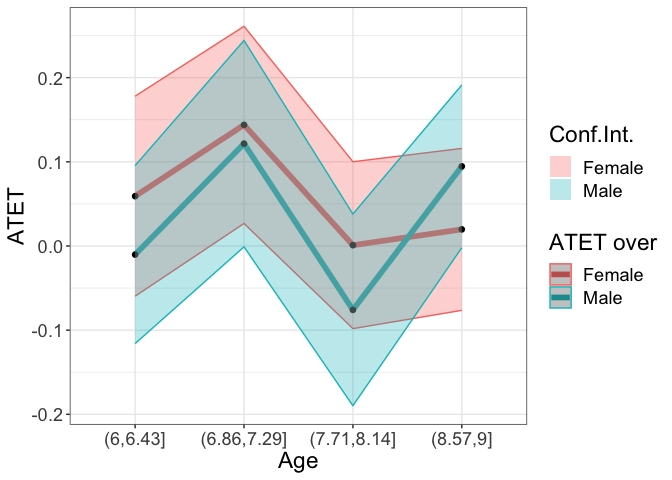
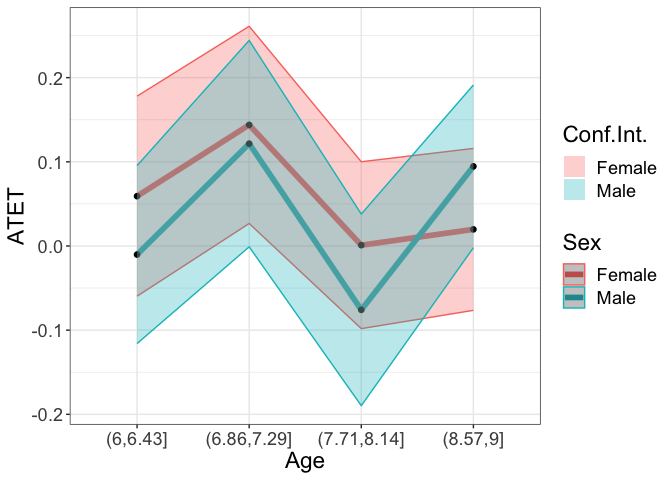
Documentation

diff --git a/docs/index.html b/docs/index.html
@@ -68,7 +68,7 @@
 <!-- README.md is generated from README.Rmd. Please edit that file -->
 <p>The <strong>didnp</strong> package contains tools for computing average treatment effect parameters in a Difference-in-Differences setup without specifying a model.</p>
 <div class="section level2">
-<h2 id="getting-started">Getting Started<a class="anchor" aria-label="anchor" href="#getting-started"></a>
+<h2 id="the-framework">The framework<a class="anchor" aria-label="anchor" href="#the-framework"></a>
 </h2>
 <p>The <strong>didnp</strong> package implements the framework developed in</p>
 <ul><li>
@@ -86,7 +86,7 @@
 <span><span class="fu">devtools</span><span class="fu">::</span><span class="fu"><a href="https://remotes.r-lib.org/reference/install_github.html" class="external-link">install_github</a></span><span class="op">(</span><span class="st">"OlegBadunenko/didnp"</span><span class="op">)</span></span></code></pre></div>
 </div>
 <div class="section level2">
-<h2 id="an-example">An example<a class="anchor" aria-label="anchor" href="#an-example"></a>
+<h2 id="illustration">Illustration<a class="anchor" aria-label="anchor" href="#illustration"></a>
 </h2>
 <blockquote>
 <p>The following is a simplified example …, which comes from <a href="https://elsevier.com/" class="external-link">that</a>.</p>
@@ -123,13 +123,16 @@
 <span></span>
 <span><span class="co"># generate 'treatment_period'</span></span>
 <span><span class="va">DACAsub</span><span class="op">$</span><span class="va">treatment_period</span> <span class="op">&lt;-</span> <span class="fu"><a href="https://rdrr.io/r/base/ifelse.html" class="external-link">ifelse</a></span><span class="op">(</span> <span class="va">DACAsub</span><span class="op">[</span>,<span class="st">"year"</span><span class="op">]</span> <span class="op">&gt;</span> <span class="fl">2011</span>, <span class="fl">1</span>, <span class="fl">0</span><span class="op">)</span></span></code></pre></div>
+<div class="section level3">
+<h3 id="estimation">Estimation<a class="anchor" aria-label="anchor" href="#estimation"></a>
+</h3>
 <p>To estimate the average treatment effects, we use the <strong>didnpreg</strong> function. Define the formula that we will use:</p>
 <div class="sourceCode" id="cb6"><pre class="downlit sourceCode r">
 <code class="sourceCode R"><span><span class="va">form1</span> <span class="op">&lt;-</span> <span class="va">inschool</span> <span class="op">~</span> <span class="va">fem</span> <span class="op">+</span> <span class="va">race</span> <span class="op">+</span> <span class="va">var.bpl</span> <span class="op">+</span> <span class="va">state</span> <span class="op">+</span> <span class="va">age</span> <span class="op">+</span> <span class="va">yrimmig</span> <span class="op">+</span> </span>
 <span>  <span class="va">ageimmig</span> <span class="op">|</span> <span class="va">inschool</span> <span class="op">|</span> <span class="va">year</span> <span class="op">|</span> <span class="va">elig</span> <span class="op">|</span> <span class="va">treatment_period</span> <span class="op">|</span> <span class="va">perwt</span></span></code></pre></div>
 <p>The <strong>didnpreg</strong> function allows using matrices. The manual explains how to use matrix syntax (type <code><a href="reference/didnpreg.html">?didnpreg</a></code>). To obtain standard errors,</p>
 <blockquote>
-<p>we will use a few number of bootstrap replicaitons here, but we advise to set <code>boot.num = 399</code> or more.</p>
+<p>we will use a few number of bootstrap replicaitons here, but we advise to set <code>boot.num = 399</code> or larger.</p>
 </blockquote>
 <p>To speed up the estimation</p>
 <blockquote>
@@ -143,7 +146,7 @@
 <span>  data <span class="op">=</span> <span class="va">DACAsub</span>,</span>
 <span>  subset <span class="op">=</span> <span class="va">mysmpl</span>,</span>
 <span>  bwmethod <span class="op">=</span> <span class="st">"opt"</span>,</span>
-<span>  boot.num <span class="op">=</span> <span class="fl">7</span>,</span>
+<span>  boot.num <span class="op">=</span> <span class="fl">99</span>,</span>
 <span>  TTb <span class="op">=</span> <span class="cn">FALSE</span>,</span>
 <span>  print.level <span class="op">=</span> <span class="fl">0</span>,</span>
 <span>  cores <span class="op">=</span> <span class="fl">8</span><span class="op">)</span></span>
@@ -167,12 +170,12 @@
 <span><span class="co">#R&gt;  6   yrimmig ordered 2.763923e-05</span></span>
 <span><span class="co">#R&gt;  7  ageimmig ordered 8.690101e-05</span></span>
 <span><span class="co">#R&gt;  </span></span>
-<span><span class="co">#R&gt;  Bootstrapping standard errors (7 replications) completed in 1 second</span></span>
+<span><span class="co">#R&gt;  Bootstrapping standard errors (99 replications) completed in 15 seconds</span></span>
 <span><span class="co">#R&gt;  </span></span>
 <span><span class="co">#R&gt;  Unconditional Treatment Effect on the Treated (ATET):</span></span>
 <span><span class="co">#R&gt;  </span></span>
 <span><span class="co">#R&gt;  TTa    = 0.03684</span></span>
-<span><span class="co">#R&gt;  TTa sd = 0.6787</span></span>
+<span><span class="co">#R&gt;  TTa sd = 0.6673</span></span>
 <span><span class="co">#R&gt;  N(TTa) = 2337</span></span></code></pre></div>
 <p>Estimating <span class="math inline"><em>T</em><em>T</em><sub><em>b</em></sub></span> will take longer. The bandwidths is cross-validated.</p>
 <div class="sourceCode" id="cb9"><pre class="downlit sourceCode r">
@@ -209,10 +212,14 @@
 <span><span class="co">#R&gt;  TTb = 0.05493, N(TTb) = 24018</span></span>
 <span><span class="co">#R&gt;  </span></span>
 <span><span class="co">#R&gt;  Bootstrapping standard errors (99 replications)</span></span>
-<span><span class="co">#R&gt;  Bootstrapping standard errors completed in 2 minutes and 47 seconds</span></span>
+<span><span class="co">#R&gt;  Bootstrapping standard errors completed in 2 minutes and 45 seconds</span></span>
 <span><span class="co">#R&gt;  </span></span>
 <span><span class="co">#R&gt;  TTa sd = 0.6344 </span></span>
 <span><span class="co">#R&gt;  TTb sd = 0.5254</span></span></code></pre></div>
+</div>
+<div class="section level3">
+<h3 id="plotting-heterogenous-treatment-effects">Plotting Heterogenous Treatment Effects<a class="anchor" aria-label="anchor" href="#plotting-heterogenous-treatment-effects"></a>
+</h3>
 <p>To plot the heterogenous treatment effects, use the <strong>didnpplothte</strong> command. Define three variables by and over which the treatment effects will be plotted:</p>
 <div class="sourceCode" id="cb10"><pre class="downlit sourceCode r">
 <code class="sourceCode R"><span><span class="va">DACAsub</span><span class="op">[</span><span class="va">tym1b</span><span class="op">$</span><span class="va">esample</span>, <span class="st">"race"</span><span class="op">]</span> <span class="op">-&gt;</span> <span class="va">race</span></span>
@@ -407,6 +414,7 @@
 <span>  over <span class="op">=</span> <span class="va">sex</span><span class="op">[</span><span class="va">tym1b</span><span class="op">$</span><span class="va">sample1</span><span class="op">]</span>,</span>
 <span>  xlab <span class="op">=</span> <span class="st">"Age"</span>,</span>
 <span>  ylab <span class="op">=</span> <span class="st">"ATET"</span>,</span>
+<span>  over.lab <span class="op">=</span> <span class="st">"Sex"</span>,</span>
 <span>  point_size <span class="op">=</span> <span class="fl">2</span>,</span>
 <span>  over.labels.values <span class="op">=</span> <span class="fu"><a href="https://rdrr.io/r/base/data.frame.html" class="external-link">data.frame</a></span><span class="op">(</span><span class="fu"><a href="https://rdrr.io/r/base/c.html" class="external-link">c</a></span><span class="op">(</span><span class="fl">1</span>,<span class="fl">0</span><span class="op">)</span>, <span class="fu"><a href="https://rdrr.io/r/base/c.html" class="external-link">c</a></span><span class="op">(</span><span class="st">"Female"</span>, <span class="st">"Male"</span><span class="op">)</span><span class="op">)</span>,</span>
 <span>  text_size <span class="op">=</span> <span class="fl">15</span><span class="op">)</span></span>
@@ -446,6 +454,7 @@
 <span>  over <span class="op">=</span> <span class="va">race</span><span class="op">[</span><span class="va">tym1b</span><span class="op">$</span><span class="va">sample1</span><span class="op">]</span>,</span>
 <span>  xlab <span class="op">=</span> <span class="st">"Sex"</span>,</span>
 <span>  ylab <span class="op">=</span> <span class="st">"ATET"</span>,</span>
+<span>  over.lab <span class="op">=</span> <span class="st">"Race"</span>,</span>
 <span>  point_size <span class="op">=</span> <span class="fl">3</span>,</span>
 <span>  by.labels.values <span class="op">=</span> <span class="fu"><a href="https://rdrr.io/r/base/data.frame.html" class="external-link">data.frame</a></span><span class="op">(</span><span class="fu"><a href="https://rdrr.io/r/base/c.html" class="external-link">c</a></span><span class="op">(</span><span class="fl">1</span>,<span class="fl">0</span><span class="op">)</span>, <span class="fu"><a href="https://rdrr.io/r/base/c.html" class="external-link">c</a></span><span class="op">(</span><span class="st">"Female"</span>, <span class="st">"Male"</span><span class="op">)</span><span class="op">)</span>,</span>
 <span>  over.labels.values <span class="op">=</span> <span class="fu"><a href="https://rdrr.io/r/base/data.frame.html" class="external-link">data.frame</a></span><span class="op">(</span></span>
@@ -483,6 +492,7 @@
 <span><span class="co">#R&gt;  10  0.22764362 0.01690772   Male    White</span></span>
 <span><span class="va">tym1b_gr_sex_race</span><span class="op">$</span><span class="va">plot.b</span></span></code></pre></div>
 <p><img src="reference/figures/README-gr_sex_race-2.png"><!-- --></p>
+</div>
 </div>
 <div class="section level2">
 <h2 id="additional-resources">Additional Resources<a class="anchor" aria-label="anchor" href="#additional-resources"></a>

diff --git a/README.md b/README.md
@@ -20,7 +20,7 @@ The **didnp** package contains tools for computing average treatment
 effect parameters in a Difference-in-Differences setup without
 specifying a model.
 
-## Getting Started
+## The framework
 
 The **didnp** package implements the framework developed in
 
@@ -41,7 +41,7 @@ if ( !require("devtools") ) install.packages("devtools"); library(devtools)
 devtools::install_github("OlegBadunenko/didnp")
 ```
 
-## An example
+## Illustration
 
 > The following is a simplified example …, which comes from
 > [that](https://elsevier.com/).
@@ -91,6 +91,8 @@ DACAsub$mysmpl <- mysmpl <-
 DACAsub$treatment_period <- ifelse( DACAsub[,"year"] > 2011, 1, 0)
 ```
 
+### Estimation
+
 To estimate the average treatment effects, we use the **didnpreg**
 function. Define the formula that we will use:
 
@@ -103,7 +105,7 @@ The **didnpreg** function allows using matrices. The manual explains how
 to use matrix syntax (type `?didnpreg`). To obtain standard errors,
 
 > we will use a few number of bootstrap replicaitons here, but we advise
-> to set `boot.num = 399` or more.
+> to set `boot.num = 399` or larger.
 
 To speed up the estimation
 
@@ -119,7 +121,7 @@ tym1a <- didnpreg(
   data = DACAsub,
   subset = mysmpl,
   bwmethod = "opt",
-  boot.num = 7,
+  boot.num = 99,
   TTb = FALSE,
   print.level = 0,
   cores = 8)
@@ -148,12 +150,12 @@ summary(tym1a)
 #R>  6   yrimmig ordered 2.763923e-05
 #R>  7  ageimmig ordered 8.690101e-05
 #R>  
-#R>  Bootstrapping standard errors (7 replications) completed in 1 second
+#R>  Bootstrapping standard errors (99 replications) completed in 15 seconds
 #R>  
 #R>  Unconditional Treatment Effect on the Treated (ATET):
 #R>  
 #R>  TTa    = 0.03684
-#R>  TTa sd = 0.6787
+#R>  TTa sd = 0.6673
 #R>  N(TTa) = 2337
 ```
 
@@ -193,11 +195,13 @@ tym1b <- didnpreg(
 #R>  TTb = 0.05493, N(TTb) = 24018
 #R>  
 #R>  Bootstrapping standard errors (99 replications)
-#R>  Bootstrapping standard errors completed in 2 minutes and 47 seconds
+#R>  Bootstrapping standard errors completed in 2 minutes and 45 seconds
 #R>  
 #R>  TTa sd = 0.6344 
 #R>  TTb sd = 0.5254
 ```
+
+### Plotting Heterogenous Treatment Effects
 
 To plot the heterogenous treatment effects, use the **didnpplothte**
 command. Define three variables by and over which the treatment effects
@@ -447,6 +451,7 @@ tym1b_gr_age_sex <- didnpplothte(
   over = sex[tym1b$sample1],
   xlab = "Age",
   ylab = "ATET",
+  over.lab = "Sex",
   point_size = 2,
   over.labels.values = data.frame(c(1,0), c("Female", "Male")),
   text_size = 15)
@@ -493,6 +498,7 @@ tym1b_gr_sex_race <- didnpplothte(
   over = race[tym1b$sample1],
   xlab = "Sex",
   ylab = "ATET",
+  over.lab = "Race",
   point_size = 3,
   by.labels.values = data.frame(c(1,0), c("Female", "Male")),
   over.labels.values = data.frame(
